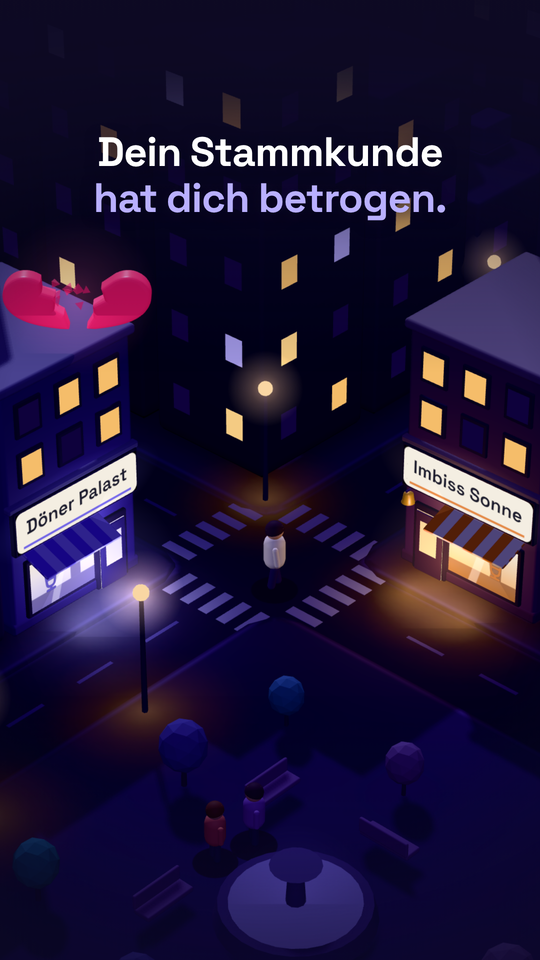
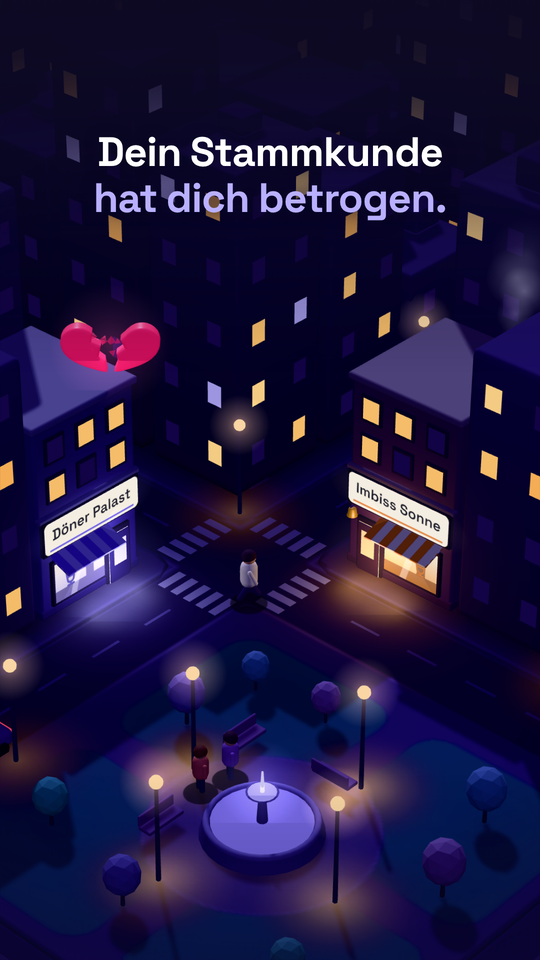
3D-Probe fertig: iso-street nachgebessert (Tuer, Knopfspalte, Kamera, hellerer Platz)
Nach der Pruefung: die Tuer schwingt nicht mehr durch den Kunden, unsichtbare
Kaesten ueber Schildern, Herz und Figur lassen die Studio-Pruefungen in die
3D-Szene sehen (Knopfspalte, Sperrzonen), die Kamera kann mit keinem push
mehr etwas abschneiden, der Platz vorne ist belebt und heller. test_3d.mjs
besteht; in selftest.mjs ist er noch nicht eingehaengt.

Claude-Session: https://claude.ai/code/session_01EEzBTnbMzCuWpdt67mYzH5

diff --git a/studio/components/iso-street.js b/studio/components/iso-street.js
@@ -56,8 +56,8 @@ const GO = -72, GS = 144, GN = 1024
 const C = {
   // Stadt eine Stufe heller als in der ersten Probe: dort verschwammen die Hauswaende mit dem Nachthimmel,
   // und die Fenster schwebten als lose Rechtecke im Dunkel (Review 17.11.2026)
-  fog: BRAND.night, road: '#1D1940', walk: '#302C5A', curb: '#4A4480', mark: '#4F4987', zebra: '#9590C4',
-  pave: '#3A356A', lawn: '#283A5E',
+  fog: BRAND.night, road: '#221D4A', walk: '#37326A', curb: '#4F4988', mark: '#4F4987', zebra: '#9590C4',
+  pave: '#423C76', lawn: '#2C4066',
   city: ['#3B375F', '#433E69', '#37335A', '#4A4572', '#3F3A63'],
   winWarm: ['#FFD58A', '#FFC56E', '#FFB55A'], winCool: '#B9B0FF', winOff: '#221B4A',
   tree: ['#6077AA', '#706CB2', '#4F8094', '#8471A8'], trunk: '#2A1F45', lamp: '#FFD9A0', pole: '#2A2258',
@@ -129,7 +129,8 @@ export default {
     if (!['left', 'right'].includes(p.ours)) ctx.fail('"ours" muss "left" oder "right" sein')
     if (!ICONS[p.rivalIcon]) ctx.fail(`Symbol "${p.rivalIcon}" gibt es nicht. Erlaubt: ${Object.keys(ICONS).join(', ')}`)
     if (typeof p.from !== 'number' || p.from < 0 || p.from > 0.9) ctx.fail('"from" muss zwischen 0 und 0,9 liegen')
-    if (!(p.push >= 0 && p.push <= 0.25)) ctx.fail('"push" muss zwischen 0 und 0,25 liegen (weiter heran schneidet die Schilder am Bildrand ab)')
+    // Die Fahrt endet immer im vermessenen Ausschnitt; mehr als 0,25 hiesse nur, dass die Laeden am Anfang winzig sind
+    if (!(p.push >= 0 && p.push <= 0.25)) ctx.fail('"push" muss zwischen 0 und 0,25 liegen (mehr lässt die Kamera so weit weg anfangen, dass die Läden am Anfang winzig sind)')
     if (!(p.orbit >= 0 && p.orbit <= 12)) ctx.fail('"orbit" muss zwischen 0 und 12 Grad liegen (mehr zeigt den Rand der Stadt)')
 
     // three.js erst hier laden: so bleibt der Baustein in Node (Katalog, Selbsttest) ohne die 700 KB importierbar

diff --git a/studio/PLAYBOOK.md b/studio/PLAYBOOK.md
@@ -986,12 +986,21 @@ Gemeinsam für alle:
   (kein Zufall ohne festen Startwert, keine Uhr). three.js liegt in
   `engine/vendor/` (r170, ohne Netz, `engine/vendor/LIESMICH.md`). Chromium
   rechnet hier ohne Grafikkarte: etwa 1,2 bis 1,4 s je Bild statt Bruchteilen,
-  eine 5-s-Szene kostet also rund zwei Minuten mehr Bauzeit. Die Prüfungen
-  sehen in die Leinwand nicht hinein (kein `data-safe`): ob Schilder lesbar
-  sind und nichts unter den Textzeilen liegt, zeigen nur die Standbilder.
-  `node studio/tools/test_3d.mjs` prüft, dass dasselbe Bild zweimal dieselben
-  Pixel ergibt und die Szene nicht leer ist (noch nicht in `selftest.mjs`).
-  Probe: `videos/_probe-3d`.
+  eine 5-s-Szene kostet also rund zwei Minuten mehr Bauzeit.
+  Die Prüfungen sehen seit dem Review vom 17.11.2026 auch in die Leinwand:
+  der Baustein meldet mit `ctx.place(fn)` (läuft bei jedem `seek`, auch ohne
+  Zeichnen) unsichtbare Kästen mit `data-safe` auf beiden Schildern, dem Herz
+  und dem Stammkunden, genau dort, wo die Kamera sie hinwirft. Sperrzonen,
+  Textabstand, Überdeckung (Schilder und Herz) und Knopfspalte gelten damit
+  auch in 3D. Vorher stand das rechte Schild bis x = 1069 unter den
+  TikTok-Knöpfen, und der Bau meldete "ok knopfspalte". Die Kamera endet immer
+  im selben vermessenen Ausschnitt (beide Läden ganz im Bild, 60 px Rand,
+  rechts vor x = 940); `push` sagt nur, wie weit sie vorher weg war.
+  `node studio/tools/test_3d.mjs` prüft: gleiche Pixel für dasselbe Bild,
+  Szene nicht leer, Kästen liegen auf dem Gezeichneten, Ausschnitt an den
+  Grenzen von `push` und `orbit` (Laden links und rechts), Tür und Stammkunde
+  berühren sich nie (0,05-s-Schritte). Etwa zwei Minuten, noch nicht in
+  `selftest.mjs`. Probe: `videos/_probe-3d`.
 
 <!-- KATALOG:ANFANG -->
 ### `paper-card` - Papier-Stempelkarte auf der Theke
@@ -1302,8 +1311,9 @@ Textzeilen: mindestens 1. Datei: `components/iso-street.js`
 | `back` | `false` | true: er kommt vom Laden gegenüber zurück in den eigenen Laden (Schluss "so bleibt er bei dir"); das Herz zerbricht dann nicht, es pocht |
 | `from` | `0` | Wo der Stammkunde auf "walk" steht, als Anteil des Weges (0 = drinnen hinter der eigenen Tür, 0,5 = mitten auf der Kreuzung) |
 | `smoke` | `true` | Rauch steigt aus dem Schornstein des Ladens gegenüber (Grill) |
-| `push` | `0.05` | Wie weit die Kamera während der Szene heranfährt (0 = steht, 0,05 = 5 % näher, höchstens 0,25; mehr schneidet die Läden am Rand an) |
+| `push` | `0.05` | Wie weit die Kamera während der Szene heranfährt (0 = steht, 0,05 = 5 % näher, höchstens 0,25). Sie endet immer im selben Ausschnitt, in dem beide Läden ganz zu sehen sind; mehr "push" heißt nur, dass sie weiter weg anfängt |
 | `orbit` | `7` | Um wie viele Grad sich die Kamera während der Szene dreht (0 bis 12) |
+| `after` | `true` | Schlussbild nach "enter": der Laden, den er verlassen hat, wird dunkler, der andere leuchtet auf. false, wenn die Szene gleich danach endet |
 | `tones` | `true` | Eigene Töne (thud beim Zerbrechen, ding an der Tür). false, wenn das Skript Klänge aus der Bibliothek setzt |
 
 | Anker | Vorgabe | Wann |
